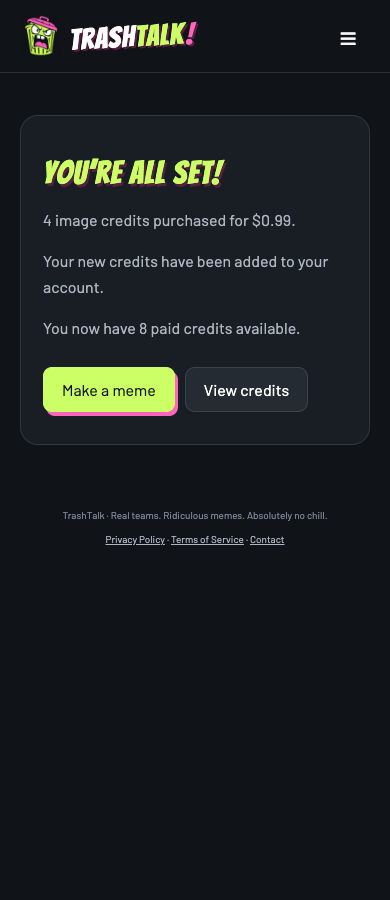
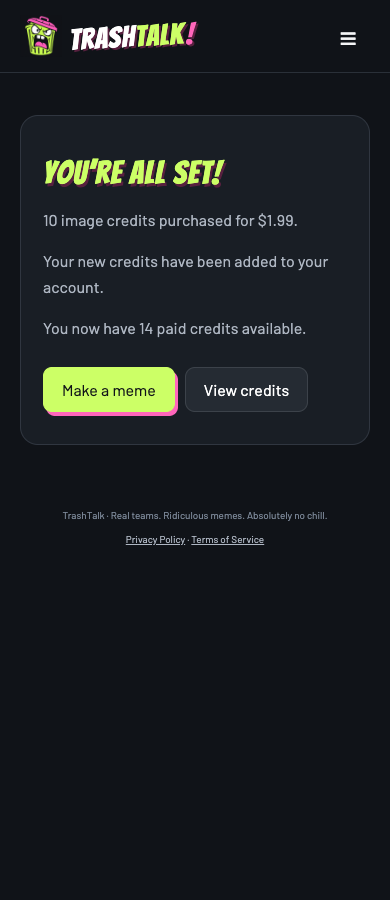
Verify new pack purchase copy and refresh billing documentation

Changed region(s): [[0.1231, 0.2178, 0.7692, 0.28], [0.2769, 0.5911, 0.7385, 0.6222], [0.3385, 0.3422, 0.7692, 0.3733]]

diff --git a/scripts/check-purchase-confirmation.ts b/scripts/check-purchase-confirmation.ts
@@ -11,7 +11,7 @@ for (const width of [390, 1440]) {
         ? {
             csrf: "fixture",
             trial: 5,
-            paid: paid ? 8 : 4,
+            paid: paid ? 14 : 4,
             authenticated: true,
             environment: "production",
           }
@@ -19,8 +19,8 @@ for (const width of [390, 1440]) {
           ? {
               status: paid ? "paid" : "pending",
               credited: paid ? 1 : 0,
-              amount: 99,
-              credits: 4,
+              amount: 199,
+              credits: 10,
             }
           : [];
     return r.fulfill({ json });
@@ -37,9 +37,9 @@ for (const width of [390, 1440]) {
     page.getByRole("heading", { name: "You’re all set!" }),
   ).toBeVisible();
   await expect(
-    page.getByText("4 image credits purchased for $0.99."),
+    page.getByText("10 image credits purchased for $1.99."),
   ).toBeVisible();
-  await expect(page.getByText("You now have")).toContainText("8 paid credits");
+  await expect(page.getByText("You now have")).toContainText("14 paid credits");
   expect(
     await page.evaluate(
       () => document.documentElement.scrollWidth <= innerWidth,
@@ -49,7 +49,7 @@ for (const width of [390, 1440]) {
   await page.getByRole("button", { name: "Make a meme", exact: true }).click();
   expect(new URL(page.url()).search).toBe("");
   await expect(
-    page.getByRole("heading", { name: "Step 1: Pick a team" }),
+    page.getByRole("heading", { name: "Who’s your team?" }),
   ).toBeVisible();
   await page.goto(origin + "/?checkout=success");
   await expect(

diff --git a/README.md b/README.md
@@ -58,7 +58,7 @@ D1 reservation triggers enforce available balances; a partial unique index enfor
 
 Five lifetime trial successes are recorded server-side. Google `sub` identifies accounts; tokens require Google signatures, issuer, audience and expiry. CSRF-protected session rotation links anonymous ownership without a second trial. Logout does not grant a fresh allowance. Deleted cookies and different devices cannot be perfectly identified as one human; bounded abuse signals limit mass session creation.
 
-Stripe Checkout always creates a USD 99-cent, four-credit, one-time pack. Signed webhooks retrieve Checkout server-side and validate amount, currency, owner and paid state. Unique event/session business keys prevent duplicate fulfillment. Paid reservations allocate FIFO to purchase grants; refunds reverse only that pack's unspent credits and flag disputed/spent grants for review. Redirects grant nothing. Successful Checkout returns open a dedicated confirmation screen using the Checkout session reference. The app polls an owner-scoped purchase endpoint and confirms the purchased amount, credits added and updated paid balance only after the paid purchase and ledger grant exist. Pending fulfillment stays visible with retry/support options. Browser checks: `npx tsx scripts/check-purchase-confirmation.ts` (simulated API responses at 390px and 1440px). Tests exercise actual Stripe signature verification with fixtures; they are not Stripe account payment evidence.
+Stripe Checkout creates a USD $1.99, 10-credit, one-time pack. Signed webhooks retrieve Checkout server-side and validate amount, currency, owner and paid state. Unique event/session business keys prevent duplicate fulfillment. Paid reservations allocate FIFO to purchase grants; refunds reverse only that pack's unspent credits and flag disputed/spent grants for review. Redirects grant nothing. Successful Checkout returns open a dedicated confirmation screen using the Checkout session reference. The app polls an owner-scoped purchase endpoint and confirms the purchased amount, credits added and updated paid balance only after the paid purchase and ledger grant exist. Pending fulfillment stays visible with retry/support options. Browser checks: `npx tsx scripts/check-purchase-confirmation.ts` (simulated API responses at 390px and 1440px). Tests exercise actual Stripe signature verification with fixtures; they are not Stripe account payment evidence.
 
 ## WNBA and college football
 
@@ -80,7 +80,7 @@ TrashTalk is live at **https://trashtalk.fanlift.ai** using dedicated Workers, D
 
 Google production-origin sign-in, anonymous image-history linkage, a real production generation, single-credit capture, private-image denial, and public share-page delivery are verified. Production research executed one web search with ESPN and official team sources. All 14 competitions are enabled. The public site was checked at 390px and 1440px without overflow. The user confirmed native Share and image saving on a physical iPhone in preview. Image actions are Save and Share: Save uses a prepared PNG through native sharing where supported, falling back to a file download; Share publishes the link and uses native sharing or the clipboard.
 
-Stripe sandbox checks completed: $0.99/four-credit purchase, cancellation without a grant, preservation of the earlier five-credit pack, repeat purchase, manual webhook replay without duplicate credit, and Google sign-out/sign-in balance restoration. The live Checkout successfully displays four credits for $0.99, but no real charge or live-webhook fulfillment has been performed. Live Stripe Payments is active; Stripe's account-status page says identity verification remains under review and payouts will pause November 11, 2026 or at $600 volume if unresolved. Existing Stripe merchant branding remains FanLift.
+Stripe sandbox checks completed: $0.99/four-credit purchase, cancellation without a grant, preservation of the earlier five-credit pack, repeat purchase, manual webhook replay without duplicate credit, and Google sign-out/sign-in balance restoration. The earlier live Checkout check displayed four credits for $0.99, but no real charge or live-webhook fulfillment has been performed. Live Stripe Payments is active; Stripe's account-status page says identity verification remains under review and payouts will pause November 11, 2026 or at $600 volume if unresolved. Existing Stripe merchant branding remains FanLift.
 
 `npx tsx scripts/deploy-production.ts` checks configuration, secret names, coverage, acceptance evidence, types, tests, build and migrations before deployment. For a deliberate emergency hold, set `LAUNCH_HOLD=true` and `PAUSE_GENERATION=true` and use `scripts/prepare-production.ts`. Preview must always use Stripe test mode. Never paste secret values into chat or commit them.
 
